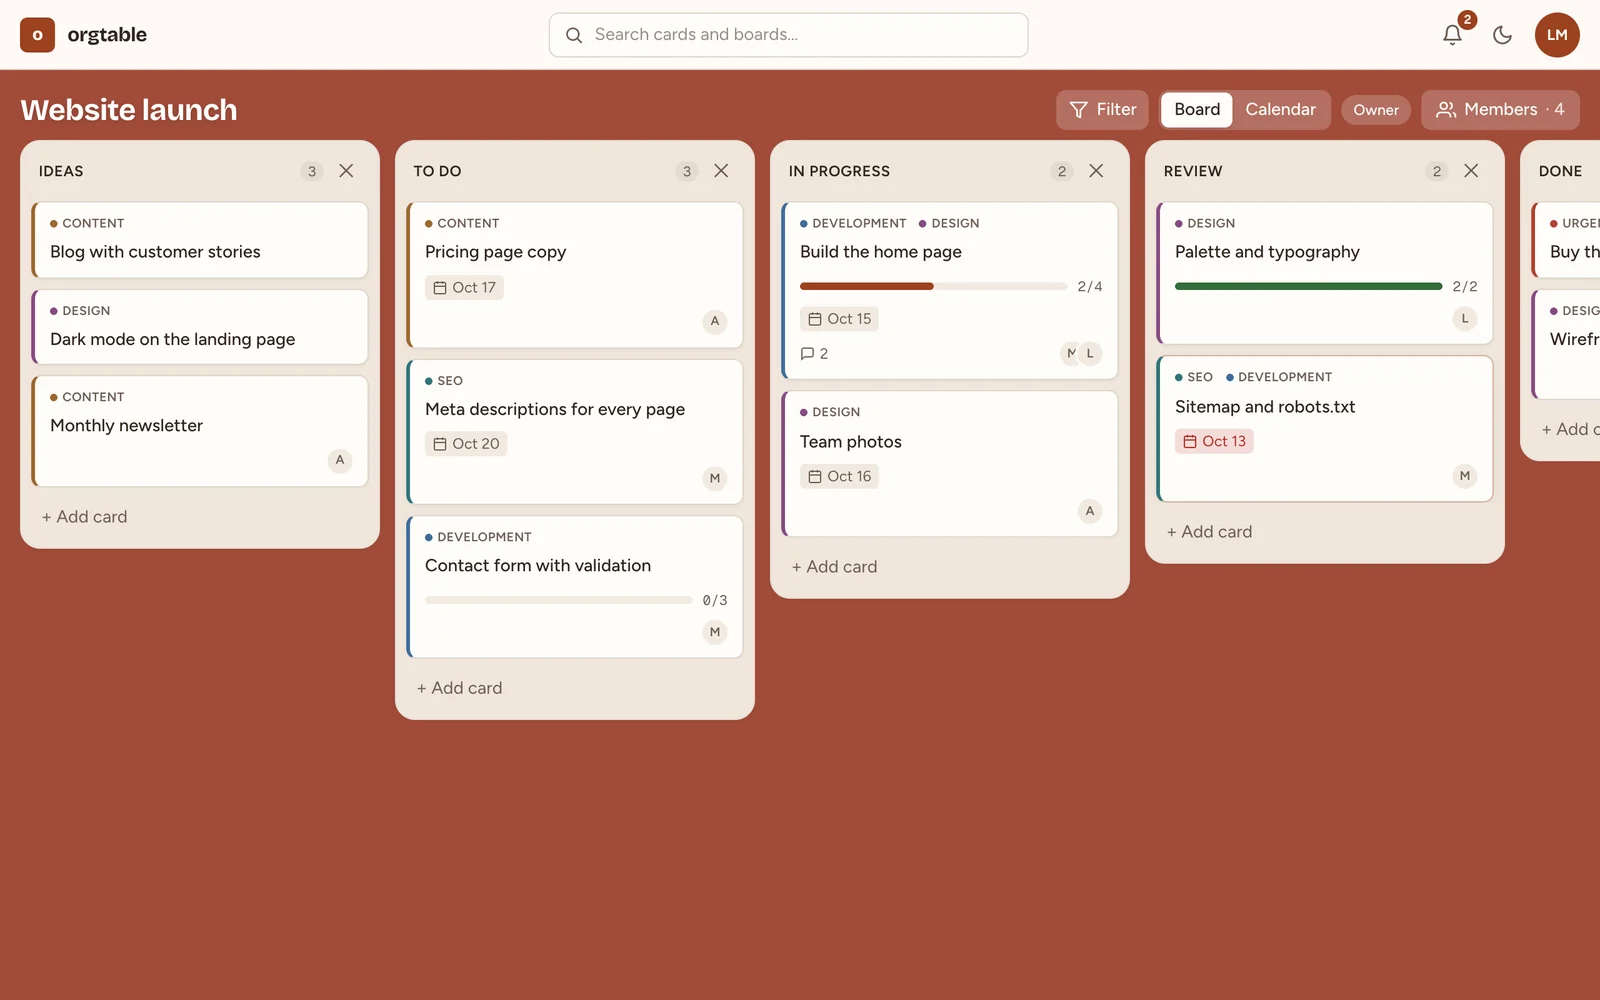
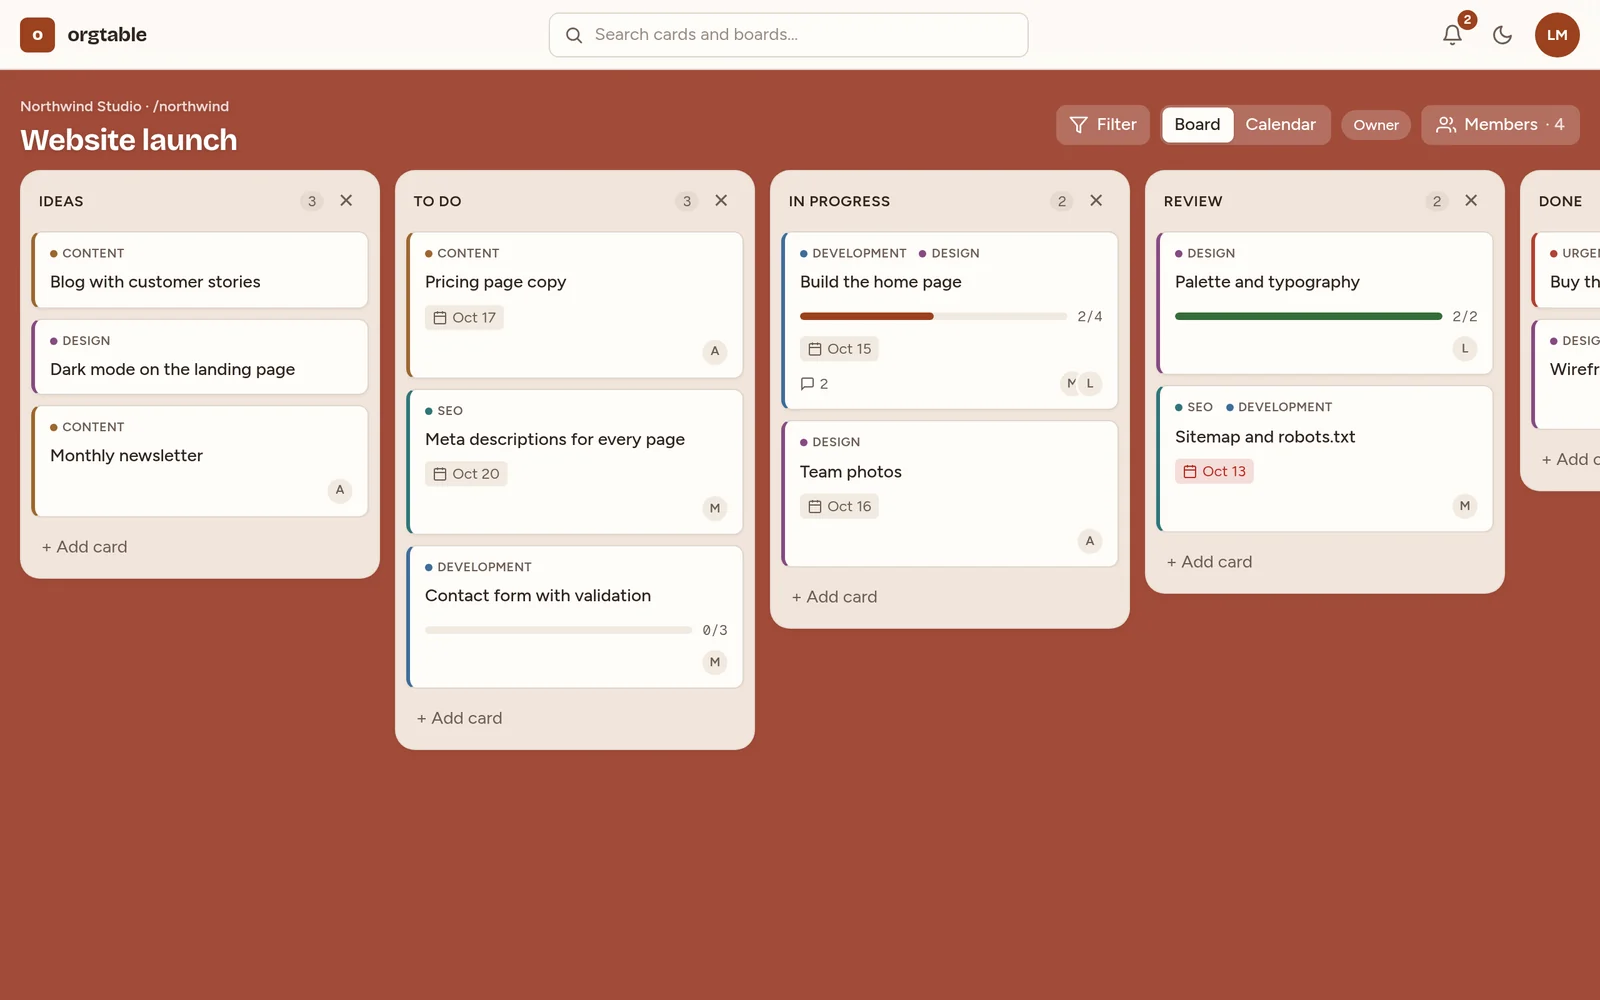
docs(readme): retake the screenshots and show organizations, landing and admin
The README media are retaken from a new demo (scripts/readme-media): an
organization with employees and roles, boards at /<workspace>/<board> and
a private board. The gallery adds the landing page, signing up an
organization, the organization's page, members and settings, and the
administration overview; the mobile section adds the landing.

Addresses shown in front of workspace slugs (settings, landing) use
ORGTABLE_PUBLIC_URL whenever it is set, not only with email on.

Changed region(s): [[0.0, 0.093, 1.0, 0.775]]

diff --git a/app/(app)/[workspace]/settings/general/page.tsx b/app/(app)/[workspace]/settings/general/page.tsx
@@ -6,7 +6,7 @@ import { getWorkspaceForUser } from "@/app/lib/queries";
 import { removeMemberAction } from "@/app/lib/actions/workspaces";
 import { canOwnWorkspace } from "@/app/lib/roles";
 import { prisma } from "@/app/lib/prisma";
-import { mailConfig } from "@/app/lib/mail/config";
+import { publicHost } from "@/app/lib/mail/config";
 import {
   DeleteOrganizationForm,
   OrganizationSettingsForm,
@@ -36,13 +36,6 @@ export async function generateMetadata({
   };
 }
 
-/** The address shown in front of the slug: the configured public one, else the request's. */
-async function displayHost(): Promise<string> {
-  const config = mailConfig();
-  if (config.enabled) return new URL(config.publicUrl).host;
-  return (await headers()).get("host") ?? "orgtable";
-}
-
 export default async function WorkspaceGeneralPage({
   params,
 }: {
@@ -57,7 +50,7 @@ export default async function WorkspaceGeneralPage({
   const [{ m }, boards, host] = await Promise.all([
     getI18n(),
     prisma.board.count({ where: { workspaceId: workspace.id } }),
-    displayHost(),
+    headers().then((h) => publicHost(h.get("host"))),
   ]);
   const t = m.workspaces;
 

diff --git a/app/(app)/settings/page.tsx b/app/(app)/settings/page.tsx
@@ -25,7 +25,7 @@ import { DeleteAccountForm, PasswordForm, ProfileForm } from "./account-forms";
 import { ThemePicker } from "./theme-picker";
 import { HandleForm } from "@/app/components/workspace/forms";
 import { personalWorkspaceOf } from "@/app/lib/services/workspaces";
-import { mailConfig } from "@/app/lib/mail/config";
+import { publicHost } from "@/app/lib/mail/config";
 import { headers } from "next/headers";
 
 export const dynamic = "force-dynamic";
@@ -121,10 +121,7 @@ export default async function SettingsPage() {
   // The handle (address of the personal boards) and the host shown in front of it: the
   // configured public address, else the one this request came to.
   const personal = await personalWorkspaceOf(user.id);
-  const mail = mailConfig();
-  const handleHost = mail.enabled
-    ? new URL(mail.publicUrl).host
-    : ((await headers()).get("host") ?? "orgtable");
+  const handleHost = publicHost((await headers()).get("host"));
   const { intl, m } = await getI18n();
   const t = m.settings;
   const session = await verifySession();

diff --git a/app/lib/mail/config.ts b/app/lib/mail/config.ts
@@ -72,3 +72,19 @@ export function mailConfig(env: NodeJS.ProcessEnv = process.env): MailConfig {
 export function isMailEnabled(): boolean {
   return mailConfig().enabled;
 }
+
+/**
+ * The address shown in front of workspace slugs (settings, landing): ORGTABLE_PUBLIC_URL's
+ * host when it is set (email on or not), else the host the request came to.
+ */
+export function publicHost(requestHost: string | null): string {
+  const raw = process.env.ORGTABLE_PUBLIC_URL?.trim();
+  if (raw) {
+    try {
+      return new URL(raw).host;
+    } catch {
+      // Invalid: mailConfig() reports it when email is on; here the request's host is fine.
+    }
+  }
+  return requestHost ?? "orgtable";
+}

diff --git a/app/page.tsx b/app/page.tsx
@@ -1,6 +1,7 @@
 import type { Metadata } from "next";
 import { redirect } from "next/navigation";
 import { headers } from "next/headers";
+import { publicHost } from "@/app/lib/mail/config";
 import { isSetupComplete, verifySession } from "@/app/lib/dal";
 import { isRegistrationOpen } from "@/app/lib/services/instance";
 import {
@@ -32,7 +33,7 @@ export default async function Home() {
   return (
     <LandingPage
       registrationOpen={registrationOpen}
-      host={(await headers()).get("host") ?? "orgtable"}
+      host={publicHost((await headers()).get("host"))}
       installScriptUrl={installScriptUrl()}
       sourceUrl={sourceCodeUrl()}
     />

diff --git a/README.es.md b/README.es.md
@@ -5,7 +5,7 @@
 ### Tu trabajo, en columnas que respiran.
 
 Tableros Kanban de código abierto: tableros, listas y tarjetas con arrastrar y soltar,<br>
-en tiempo real y con tus datos donde tú decidas. Una alternativa a Trello que puedes alojar tú.
+en tiempo real. Gratis para personas y empresas en orgtable.aimar.dev, o en tu propio servidor.
 
 [![CI](https://github.com/Aimarmndz/orgtable/actions/workflows/ci.yml/badge.svg)](https://github.com/Aimarmndz/orgtable/actions/workflows/ci.yml)
 [![Licencia: AGPL-3.0-or-later](https://img.shields.io/badge/licencia-AGPL--3.0--or--later-9b411e)](./LICENSE)
@@ -19,7 +19,7 @@ en tiempo real y con tus datos donde tú decidas. Una alternativa a Trello que p
 
 <br>
 
-<img src="docs/screenshots/hero.gif" alt="Un tablero de orgtable: se arrastra la tarjeta «Team photos» de la lista In progress a Review y después se abre el detalle de «Build the home page» (la interfaz de las capturas está en inglés), con etiquetas, asignados, descripción, vencimiento y checklist" width="960">
+<img src="docs/screenshots/hero.gif" alt="Un tablero de la organización Northwind Studio en /northwind/website-launch: se arrastra la tarjeta «Team photos» de la lista In progress a Review y después se abre el detalle de «Build the home page» (la interfaz de las capturas está en inglés), con etiquetas, asignados, descripción, vencimiento y checklist" width="960">
 
 <sub>Sin montaje: la app real con datos de ejemplo, grabada en el navegador.</sub>
 
@@ -60,15 +60,27 @@ con Docker, con un solo comando.
 
 <table>
   <tr>
+    <td width="50%" align="center" valign="top"><img src="docs/screenshots/landing-light.webp" alt="La landing pública en estilo retro: «Your boards. Your server.», un tablero de ejemplo en una ventana y botones para crear una cuenta gratis, registrar una empresa o instalarlo" width="100%"><br><sub><b>Landing</b>. Gratis en la web, o en tu propio servidor.</sub></td>
+    <td width="50%" align="center" valign="top"><img src="docs/screenshots/register-light.webp" alt="Formulario de registro con la opción «Para mí» o «Para mi organización», y el nombre y la dirección de la organización" width="100%"><br><sub><b>Regístrate</b> tú o tu organización, gratis.</sub></td>
+  </tr>
+  <tr>
+    <td width="50%" align="center" valign="top"><img src="docs/screenshots/org-members-light.webp" alt="Miembros de la organización Northwind Studio: tarjetas con el resumen de roles, una tabla con el rol de cada persona y botones para cambiar el rol, poner una contraseña nueva o expulsar, y el formulario para crear una cuenta de empleado" width="100%"><br><sub><b>Tu organización</b>. Empleados, roles y quién puede hacer qué.</sub></td>
+    <td width="50%" align="center" valign="top"><img src="docs/screenshots/workspace-light.webp" alt="La página de la organización Northwind Studio en /northwind con sus tableros" width="100%"><br><sub><b>Cada organización tiene su dirección</b>: <code>/northwind/website-launch</code>.</sub></td>
+  </tr>
+  <tr>
+    <td width="50%" align="center" valign="top"><img src="docs/screenshots/org-general-light.webp" alt="Ajustes de la organización: nombre y dirección, salir de la organización y una zona de peligro para borrarla" width="100%"><br><sub><b>Ajustes de la organización</b>, con zona de peligro.</sub></td>
+    <td width="50%" align="center" valign="top"><img src="docs/screenshots/admin-light.webp" alt="El resumen de la administración de la instancia: cifras del servicio y cada organización con sus propietarios, miembros, tableros y estado, y botones para suspender o borrar" width="100%"><br><sub><b>Administración</b>. Cifras y todos los espacios, nunca su contenido.</sub></td>
+  </tr>
+  <tr>
     <td width="50%" align="center" valign="top"><img src="docs/screenshots/realtime.gif" alt="Dos navegadores con el mismo tablero: en el de la izquierda Lucía mueve la tarjeta «Monthly newsletter» a To do y en el de la derecha Marcos la ve aparecer al momento" width="100%"><br><sub><b>Tiempo real</b>. Lucía mueve una tarjeta y Marcos la ve al instante.</sub></td>
     <td width="50%" align="center" valign="top"><img src="docs/screenshots/card-dark.webp" alt="Detalle de una tarjeta en tema oscuro con etiquetas, asignados, descripción, vencimiento y una checklist a la mitad" width="100%"><br><sub><b>Detalle de tarjeta</b>, en tema oscuro.</sub></td>
   </tr>
   <tr>
     <td width="50%" align="center" valign="top"><img src="docs/screenshots/calendar-light.webp" alt="Vista de calendario de octubre con las tarjetas colocadas en su día de vencimiento" width="100%"><br><sub><b>Calendario</b>. Arrastra para cambiar el vencimiento.</sub></td>
-    <td width="50%" align="center" valign="top"><img src="docs/screenshots/boards-light.webp" alt="Índice de tableros con su color, el número de tarjetas y las iniciales de quien está dentro, y el menú de la cuenta" width="100%"><br><sub><b>Tus tableros</b>, con quién está en cada uno.</sub></td>
+    <td width="50%" align="center" valign="top"><img src="docs/screenshots/boards-light.webp" alt="Tus tableros agrupados por espacio: los personales y los de la organización Northwind Studio" width="100%"><br><sub><b>Tus tableros</b>, agrupados por espacio.</sub></td>
   </tr>
   <tr>
-    <td width="50%" align="center" valign="top"><img src="docs/screenshots/settings-light.webp" alt="Página de ajustes con navegación lateral: perfil, contraseña y sesiones, tokens de API, apariencia, privacidad y datos, y acerca de" width="100%"><br><sub><b>Ajustes</b>. Perfil, sesiones, tokens y tus datos.</sub></td>
+    <td width="50%" align="center" valign="top"><img src="docs/screenshots/settings-light.webp" alt="Página de ajustes con navegación lateral: perfil con tu dirección personal, contraseña y sesiones, tokens de API, apariencia, privacidad y datos" width="100%"><br><sub><b>Ajustes</b>. Perfil, tu dirección, sesiones y tus datos.</sub></td>
     <td width="50%" align="center" valign="top"><img src="docs/screenshots/board-dark.webp" alt="El mismo tablero en tema oscuro" width="100%"><br><sub><b>Tema oscuro</b>, en carbón cálido.</sub></td>
   </tr>
 </table>
@@ -76,7 +88,11 @@ con Docker, con un solo comando.
 <details>
 <summary>En el móvil</summary>
 <br>
-<p align="center"><img src="docs/screenshots/board-mobile.webp" alt="El tablero en un móvil de 390 px de ancho, con las columnas que se desplazan en horizontal" width="320"></p>
+<p align="center">
+  <img src="docs/screenshots/board-mobile.webp" alt="El tablero en un móvil de 390 px de ancho, con las columnas que se desplazan en horizontal" width="300">
+  &nbsp;
+  <img src="docs/screenshots/landing-mobile-dark.webp" alt="La landing en un móvil de 390 px de ancho en tema oscuro" width="300">
+</p>
 </details>
 
 ## Requisitos

diff --git a/README.md b/README.md
@@ -5,7 +5,7 @@
 ### Your work, in columns that breathe.
 
 Open-source Kanban boards: boards, lists and cards with drag and drop,<br>
-in real time, with your data wherever you decide. A Trello alternative you can host yourself.
+in real time. Free for people and companies at orgtable.aimar.dev, or on your own server.
 
 [![CI](https://github.com/Aimarmndz/orgtable/actions/workflows/ci.yml/badge.svg)](https://github.com/Aimarmndz/orgtable/actions/workflows/ci.yml)
 [![License: AGPL-3.0-or-later](https://img.shields.io/badge/license-AGPL--3.0--or--later-9b411e)](./LICENSE)
@@ -19,7 +19,7 @@ in real time, with your data wherever you decide. A Trello alternative you can h
 
 <br>
 
-<img src="docs/screenshots/hero.gif" alt="An orgtable board: the card “Team photos” is dragged from the In progress list to Review, then the details of “Build the home page” open, with labels, assignees, description, due date and a checklist" width="960">
+<img src="docs/screenshots/hero.gif" alt="A board of the organization Northwind Studio at /northwind/website-launch: the card “Team photos” is dragged from the In progress list to Review, then the details of “Build the home page” open, with labels, assignees, description, due date and a checklist" width="960">
 
 <sub>No editing: the real app with sample data, recorded in the browser.</sub>
 
@@ -57,15 +57,27 @@ single command.
 
 <table>
   <tr>
+    <td width="50%" align="center" valign="top"><img src="docs/screenshots/landing-light.webp" alt="The public landing page in a retro style: “Your boards. Your server.”, an example board in a window, and buttons to create a free account, register a company or install it" width="100%"><br><sub><b>Landing page</b>. Free online, or on your own server.</sub></td>
+    <td width="50%" align="center" valign="top"><img src="docs/screenshots/register-light.webp" alt="Sign-up form with the choice “For me” or “For my organization”, and the organization’s name and address" width="100%"><br><sub><b>Sign up</b> yourself or your organization, free.</sub></td>
+  </tr>
+  <tr>
+    <td width="50%" align="center" valign="top"><img src="docs/screenshots/org-members-light.webp" alt="Members of the organization Northwind Studio: role summary cards, a table with each person’s role, and buttons to change the role, set a new password or remove them, plus the form to create an employee account" width="100%"><br><sub><b>Your organization</b>. Employees, roles and who can do what.</sub></td>
+    <td width="50%" align="center" valign="top"><img src="docs/screenshots/workspace-light.webp" alt="The page of the organization Northwind Studio at /northwind with its boards" width="100%"><br><sub><b>Every organization has its address</b>: <code>/northwind/website-launch</code>.</sub></td>
+  </tr>
+  <tr>
+    <td width="50%" align="center" valign="top"><img src="docs/screenshots/org-general-light.webp" alt="Organization settings: name and address, leaving the organization, and a danger zone to delete it" width="100%"><br><sub><b>Organization settings</b>, with a danger zone.</sub></td>
+    <td width="50%" align="center" valign="top"><img src="docs/screenshots/admin-light.webp" alt="The instance administrator’s overview: service figures and every organization with its owners, members, boards and status, and buttons to suspend or delete" width="100%"><br><sub><b>Administration</b>. Figures and every workspace, never their content.</sub></td>
+  </tr>
+  <tr>
     <td width="50%" align="center" valign="top"><img src="docs/screenshots/realtime.gif" alt="Two browsers on the same board: on the left Lucía moves the card “Monthly newsletter” to To do, and on the right Marcos sees it appear immediately" width="100%"><br><sub><b>Real time</b>. Lucía moves a card and Marcos sees it instantly.</sub></td>
     <td width="50%" align="center" valign="top"><img src="docs/screenshots/card-dark.webp" alt="Card details in the dark theme, with labels, assignees, description, due date and a half-done checklist" width="100%"><br><sub><b>Card details</b>, in the dark theme.</sub></td>
   </tr>
   <tr>
     <td width="50%" align="center" valign="top"><img src="docs/screenshots/calendar-light.webp" alt="October calendar view with each card placed on its due date" width="100%"><br><sub><b>Calendar</b>. Drag a card to change its due date.</sub></td>
-    <td width="50%" align="center" valign="top"><img src="docs/screenshots/boards-light.webp" alt="Board index with each board's color, card count and the initials of its members, plus the account menu" width="100%"><br><sub><b>Your boards</b>, with who is on each one.</sub></td>
+    <td width="50%" align="center" valign="top"><img src="docs/screenshots/boards-light.webp" alt="Your boards grouped by workspace: personal boards and the organization Northwind Studio" width="100%"><br><sub><b>Your boards</b>, grouped by workspace.</sub></td>
   </tr>
   <tr>
-    <td width="50%" align="center" valign="top"><img src="docs/screenshots/settings-light.webp" alt="Settings page with side navigation: profile, password and sessions, API tokens, appearance, privacy and data, and about" width="100%"><br><sub><b>Settings</b>. Profile, sessions, tokens and your data.</sub></td>
+    <td width="50%" align="center" valign="top"><img src="docs/screenshots/settings-light.webp" alt="Settings page with side navigation: profile with your personal address, password and sessions, API tokens, appearance, privacy and data" width="100%"><br><sub><b>Settings</b>. Profile, your address, sessions and your data.</sub></td>
     <td width="50%" align="center" valign="top"><img src="docs/screenshots/board-dark.webp" alt="The same board in the dark theme" width="100%"><br><sub><b>Dark theme</b>, in warm charcoal.</sub></td>
   </tr>
 </table>
@@ -73,7 +85,11 @@ single command.
 <details>
 <summary>On mobile</summary>
 <br>
-<p align="center"><img src="docs/screenshots/board-mobile.webp" alt="The board on a 390 px wide phone, with columns that scroll horizontally" width="320"></p>
+<p align="center">
+  <img src="docs/screenshots/board-mobile.webp" alt="The board on a 390 px wide phone, with columns that scroll horizontally" width="300">
+  &nbsp;
+  <img src="docs/screenshots/landing-mobile-dark.webp" alt="The landing page on a 390 px wide phone in the dark theme" width="300">
+</p>
 </details>
 
 ## Requirements

diff --git a/scripts/readme-media/README.md b/scripts/readme-media/README.md
@@ -17,9 +17,12 @@ DATABASE_URL="$DEMO_URL" pnpm exec prisma migrate deploy
 export DEMO_PASSWORD="$(openssl rand -hex 12)"
 DATABASE_URL="$DEMO_URL" node scripts/readme-media/seed-demo.mjs
 
-# 2. Production build served with the demo database (any free port, e.g. 3051)
+# 2. Production build served with the demo database (any free port, e.g. 3051). The
+#    landing is forced on and the public address set, so screenshots show the landing page
+#    and "orgtable.aimar.dev/<slug>" in front of addresses.
 pnpm build
-DATABASE_URL="$DEMO_URL" pnpm start -p 3051 &
+DATABASE_URL="$DEMO_URL" ORGTABLE_LANDING=on ORGTABLE_PUBLIC_URL=https://orgtable.aimar.dev \
+  pnpm start -p 3051 &
 
 # 3. Screenshots and frames. playwright-core goes in a temporary folder and the script is
 #    copied there: ESM imports are resolved from the script's folder.
@@ -33,3 +36,9 @@ OUT=/tmp/orgtable-media python3 scripts/readme-media/make_gifs.py
 `make_gifs.py` writes the two GIFs and the WebP screenshots to `$OUT/gifs/`: copy them to
 `docs/screenshots/` with `cp /tmp/orgtable-media/gifs/*.{gif,webp} docs/screenshots/`.
 Recording changes the demo (cards are moved): seed it again before repeating.
+
+The demo is an organization, **Northwind Studio** (`/northwind`), owned by Lucía (also the
+instance administrator, for the `/admin` screenshot), whose employees are Marcos (admin), Ana and
+Diego; Sofía owns another organization. Besides the boards, `capture.mjs` takes the landing
+page (signed out, light and dark), signing up an organization, the organization's page, members
+and general settings, and the administration overview.
